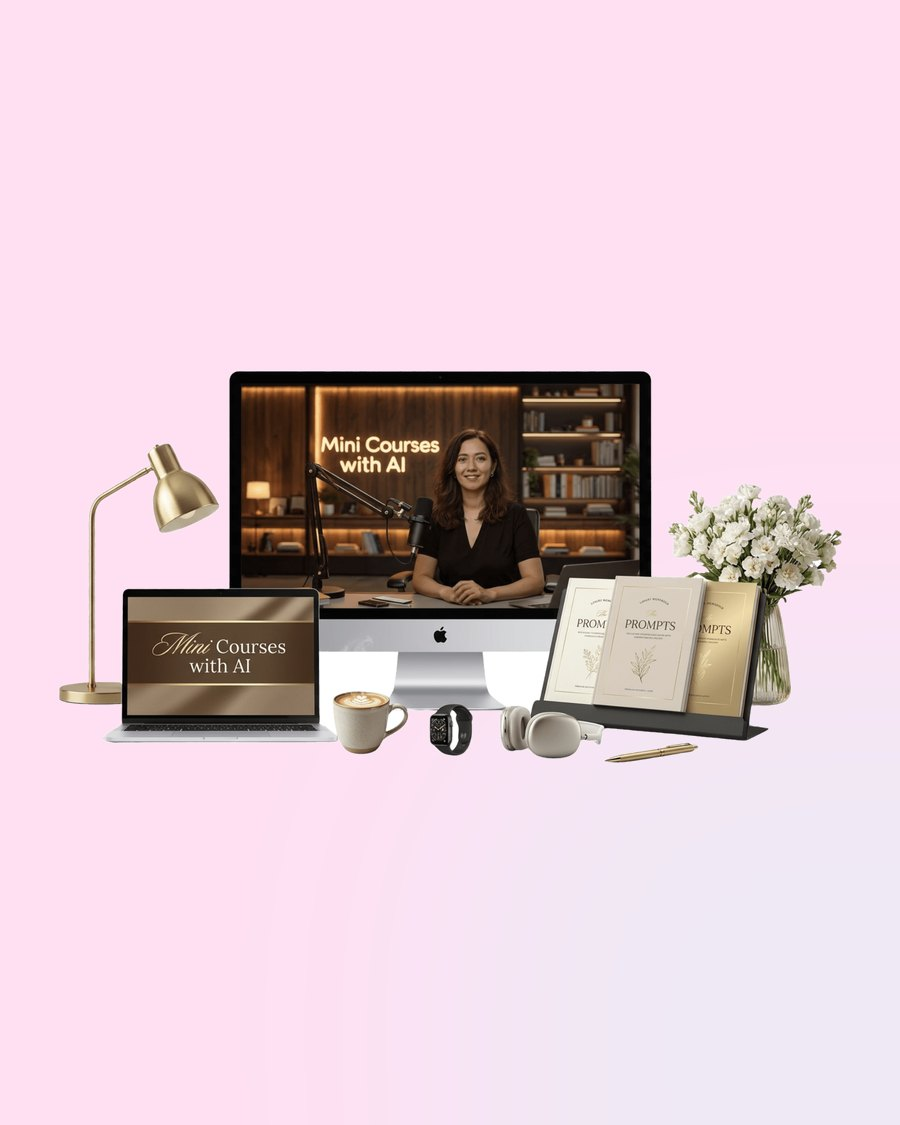
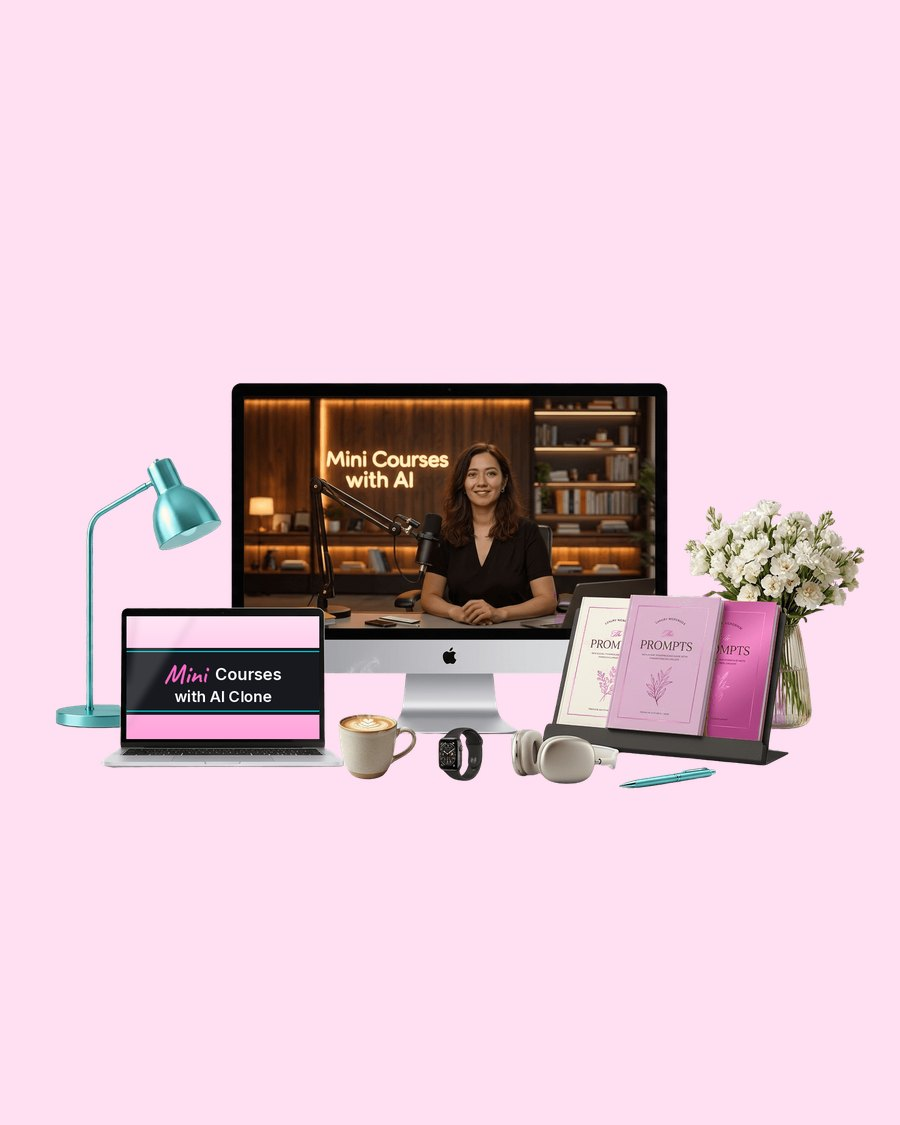
Site-wide: Mini Courses with AI Clone page linked from homepage at $39, new card image, All Access values, llms.txt and SEO tags
Claude-Session: https://claude.ai/code/session_01PxeRzWeaheMs1T8rnp6Qtq

Changed region(s): [[0.0622, 0.3111, 0.9644, 0.7156]]

diff --git a/mini-courses-with-ai-clone.html b/mini-courses-with-ai-clone.html
@@ -9,6 +9,98 @@
 <link rel="icon" type="image/png" href="assets/favicon.png">
 <!-- TRACKING SLOT: paste Meta pixel / Google Analytics / Pinterest tag here -->
 <link rel="stylesheet" href="css/funnel.css">
+  <!-- SEO: canonical, social and structured data -->
+  <link rel="canonical" href="https://creatorhustle.ai/mini-courses-with-ai-clone">
+  <meta property="og:site_name" content="Creator Hustle AI">
+  <meta property="og:type" content="website">
+  <meta property="og:title" content="Mini Courses with AI Clone | Creator Hustle AI">
+  <meta property="og:description" content="Turn your ideas into mini courses with your AI clone. A simple 5-step system from idea to published mini course, with no camera needed. $39.">
+  <meta property="og:url" content="https://creatorhustle.ai/mini-courses-with-ai-clone">
+  <meta property="og:image" content="https://creatorhustle.ai/assets/liya-bio.jpg">
+  <meta name="twitter:card" content="summary_large_image">
+  <script type="application/ld+json">
+{
+ "@context": "https://schema.org",
+ "@graph": [
+  {
+   "@type": "WebPage",
+   "@id": "https://creatorhustle.ai/mini-courses-with-ai-clone#page",
+   "url": "https://creatorhustle.ai/mini-courses-with-ai-clone",
+   "name": "Mini Courses with AI Clone | Creator Hustle AI",
+   "description": "Turn your ideas into mini courses with your AI clone. A simple 5-step system from idea to published mini course, with no camera needed. $39.",
+   "isPartOf": {
+    "@id": "https://creatorhustle.ai/#site"
+   },
+   "publisher": {
+    "@id": "https://creatorhustle.ai/#org"
+   },
+   "inLanguage": "en"
+  },
+  {
+   "@type": "FAQPage",
+   "@id": "https://creatorhustle.ai/mini-courses-with-ai-clone#faq",
+   "mainEntity": [
+    {
+     "@type": "Question",
+     "name": "Do I need any experience creating online courses?",
+     "acceptedAnswer": {
+      "@type": "Answer",
+      "text": "Not at all. It's designed for beginners and walks you through the whole process step by step, whether it's your first course or your tenth."
+     }
+    },
+    {
+     "@type": "Question",
+     "name": "Do I need to be good with AI or tech?",
+     "acceptedAnswer": {
+      "@type": "Answer",
+      "text": "No. Every tool I use is beginner-friendly, and I show you each click on screen."
+     }
+    },
+    {
+     "@type": "Question",
+     "name": "Do I need to appear on camera?",
+     "acceptedAnswer": {
+      "@type": "Answer",
+      "text": "No. You'll create your own AI clone presenter, so it can deliver your course content for you."
+     }
+    },
+    {
+     "@type": "Question",
+     "name": "How quickly can I create my mini course?",
+     "acceptedAnswer": {
+      "@type": "Answer",
+      "text": "Every course is different, but somewhere between 1 and 48 hours is realistic. The goal is to get you from idea to launch much faster by using AI throughout."
+     }
+    },
+    {
+     "@type": "Question",
+     "name": "What kind of course can I make?",
+     "acceptedAnswer": {
+      "@type": "Answer",
+      "text": "Almost anything you know well: coaching, business, marketing, wellness, hobbies, crafts. If you can explain it, your AI clone can present it."
+     }
+    },
+    {
+     "@type": "Question",
+     "name": "Will I be able to sell my course afterwards?",
+     "acceptedAnswer": {
+      "@type": "Answer",
+      "text": "Absolutely. By the end you'll have a mini course that's packaged and ready to publish, share or sell."
+     }
+    },
+    {
+     "@type": "Question",
+     "name": "Can I get a refund?",
+     "acceptedAnswer": {
+      "@type": "Answer",
+      "text": "Because it's a digital product with instant access, there are no refunds. If something isn't working for you, email me at liya@creatorhustle.ai and we'll sort it out together."
+     }
+    }
+   ]
+  }
+ ]
+}
+</script>
 </head>
 <body>
 

diff --git a/all-access-pass.html b/all-access-pass.html
@@ -245,8 +245,8 @@
           <p class="section-subtitle">If you'll use more than a few of my products this year, this is your smartest purchase. Here's roughly what everything would cost on its own.</p>
         </div>
         <div class="mathbox animate-on-scroll">
-          <div class="mb-row"><span>Interactive Mini Apps course</span><span>$49</span></div><div class="mb-row"><span>Mini Shop Method</span><span>$39</span></div><div class="mb-row"><span>Mini Courses with AI Clone</span><span>$19</span></div><div class="mb-row"><span>70 AI Skills PLR bundle</span><span>$59</span></div><div class="mb-row"><span>The AI Executive Suite</span><span>about $53</span></div><div class="mb-row"><span>AI Migration Kit</span><span>about $45</span></div><div class="mb-row"><span>My other Shopify products</span><span>about $160</span></div><div class="mb-row"><span>New courses and products in your 12 months</span><span>$450+</span></div>
-          <div class="mb-row mb-total"><span>If you bought it all separately</span><span class="mb-strike">$870+</span></div>
+          <div class="mb-row"><span>Interactive Mini Apps course</span><span>$49</span></div><div class="mb-row"><span>Mini Shop Method</span><span>$39</span></div><div class="mb-row"><span>Mini Courses with AI Clone</span><span>$39</span></div><div class="mb-row"><span>70 AI Skills PLR bundle</span><span>$59</span></div><div class="mb-row"><span>The AI Executive Suite</span><span>about $53</span></div><div class="mb-row"><span>AI Migration Kit</span><span>about $45</span></div><div class="mb-row"><span>My other Shopify products</span><span>about $160</span></div><div class="mb-row"><span>New courses and products in your 12 months</span><span>$450+</span></div>
+          <div class="mb-row mb-total"><span>If you bought it all separately</span><span class="mb-strike">$890+</span></div>
           <div class="mb-row mb-price"><span>Your All Access Pass</span><span>$397/year</span></div>
           <p class="mb-note">Founding members pay just $397 for their first year.</p>
         </div>

diff --git a/interactive-mini-app.html b/interactive-mini-app.html
@@ -311,8 +311,8 @@ details .a{padding:0 22px 20px;color:var(--muted)}
   <link rel="canonical" href="https://creatorhustle.ai/interactive-mini-app">
   <meta property="og:site_name" content="Creator Hustle AI">
   <meta property="og:type" content="website">
-  <meta property="og:title" content="Interactive Mini App: Turn Your Freebie Into a Mini App | Creator Hustle AI">
-  <meta property="og:description" content="Turn the PDF nobody opens into an interactive mini app your audience actually uses. 4 short lessons, no code. $29.">
+  <meta property="og:title" content="Interactive Mini Apps: Turn Your Freebie Into a Mini App | Creator Hustle AI">
+  <meta property="og:description" content="Turn the PDF nobody opens into an interactive mini app your audience actually uses. 4 short lessons, no code. $49.">
   <meta property="og:url" content="https://creatorhustle.ai/interactive-mini-app">
   <meta property="og:image" content="https://creatorhustle.ai/assets/liya-bio.jpg">
   <meta name="twitter:card" content="summary_large_image">
@@ -324,8 +324,8 @@ details .a{padding:0 22px 20px;color:var(--muted)}
    "@type": "WebPage",
    "@id": "https://creatorhustle.ai/interactive-mini-app#page",
    "url": "https://creatorhustle.ai/interactive-mini-app",
-   "name": "Interactive Mini App: Turn Your Freebie Into a Mini App | Creator Hustle AI",
-   "description": "Turn the PDF nobody opens into an interactive mini app your audience actually uses. 4 short lessons, no code. $29.",
+   "name": "Interactive Mini Apps: Turn Your Freebie Into a Mini App | Creator Hustle AI",
+   "description": "Turn the PDF nobody opens into an interactive mini app your audience actually uses. 4 short lessons, no code. $49.",
    "isPartOf": {
     "@id": "https://creatorhustle.ai/#site"
    },

diff --git a/index.html b/index.html
@@ -421,10 +421,10 @@
             <div class="offer-body">
               <span class="offer-step">Step 5 &middot; Create a course, fast</span>
               <h3 class="offer-name">Mini Courses with AI Clone</h3>
-              <p class="offer-price">$19</p>
+              <p class="offer-price">$39</p>
               <p class="offer-desc">Use AI to plan, build, present, package and publish your mini course, with your AI clone that presents the lessons for you. No course-creation or tech experience needed.</p>
               <p class="offer-leave"><strong>You leave with:</strong> your own mini course, ready to publish and sell.</p>
-              <a href="https://go.coursehustle.com/mini-courses-with-ai/" class="btn btn-dark" target="_blank" rel="noopener">Get the course <svg class="btn-arrow" xmlns="http://www.w3.org/2000/svg" width="16" height="16" viewBox="0 0 24 24" fill="none" stroke="currentColor" stroke-width="2.25" stroke-linecap="round" stroke-linejoin="round" aria-hidden="true"><path d="M5 12h14M13 6l6 6-6 6"/></svg></a>
+              <a href="mini-courses-with-ai-clone.html" class="btn btn-dark">See the course <svg class="btn-arrow" xmlns="http://www.w3.org/2000/svg" width="16" height="16" viewBox="0 0 24 24" fill="none" stroke="currentColor" stroke-width="2.25" stroke-linecap="round" stroke-linejoin="round" aria-hidden="true"><path d="M5 12h14M13 6l6 6-6 6"/></svg></a>
             </div>
           </article>
 

diff --git a/interactive-mini-app-offer.html b/interactive-mini-app-offer.html
@@ -298,8 +298,8 @@ details .a{padding:0 22px 20px;color:var(--muted)}
   <link rel="canonical" href="https://creatorhustle.ai/interactive-mini-app-offer">
   <meta property="og:site_name" content="Creator Hustle AI">
   <meta property="og:type" content="website">
-  <meta property="og:title" content="Interactive Mini App: Special One-Time Offer | Creator Hustle AI">
-  <meta property="og:description" content="Your next digital product could be a mini app. Interactive Mini App shows you how to build it, in 4 short lessons, at a one-time price.">
+  <meta property="og:title" content="Interactive Mini Apps: Special One-Time Offer | Creator Hustle AI">
+  <meta property="og:description" content="Your next digital product could be a mini web app. Interactive Mini Apps shows you how to build it, in 4 short lessons, at a one-time price.">
   <meta property="og:url" content="https://creatorhustle.ai/interactive-mini-app-offer">
   <meta property="og:image" content="https://creatorhustle.ai/assets/liya-bio.jpg">
   <meta name="twitter:card" content="summary_large_image">

diff --git a/mini-courses-with-ai-offer.html b/mini-courses-with-ai-offer.html
@@ -10,6 +10,15 @@
 <link rel="icon" type="image/png" href="assets/favicon.png">
 <!-- TRACKING SLOT: paste Meta pixel / Google Analytics / Pinterest tag here -->
 <link rel="stylesheet" href="css/funnel.css">
+  <!-- SEO: canonical, social and structured data -->
+  <link rel="canonical" href="https://creatorhustle.ai/mini-courses-with-ai-offer">
+  <meta property="og:site_name" content="Creator Hustle AI">
+  <meta property="og:type" content="website">
+  <meta property="og:title" content="Mini Courses with AI Clone: Final Offer | Creator Hustle AI">
+  <meta property="og:description" content="Turn your ideas into mini courses with your AI clone. A final offer at $19 instead of $39, only on this page.">
+  <meta property="og:url" content="https://creatorhustle.ai/mini-courses-with-ai-offer">
+  <meta property="og:image" content="https://creatorhustle.ai/assets/liya-bio.jpg">
+  <meta name="twitter:card" content="summary_large_image">
 </head>
 <body>
 

diff --git a/canva-ai-prompt-library-offer.html b/canva-ai-prompt-library-offer.html
@@ -10,6 +10,15 @@
 <link rel="icon" type="image/png" href="assets/favicon.png">
 <!-- TRACKING SLOT: paste Meta pixel / Google Analytics / Pinterest tag here -->
 <link rel="stylesheet" href="css/funnel.css">
+  <!-- SEO: canonical, social and structured data -->
+  <link rel="canonical" href="https://creatorhustle.ai/canva-ai-prompt-library-offer">
+  <meta property="og:site_name" content="Creator Hustle AI">
+  <meta property="og:type" content="website">
+  <meta property="og:title" content="Canva AI Prompt Library + Workshop: One-Time Add-On | Creator Hustle AI">
+  <meta property="og:description" content="Add 43 ready-to-use Canva AI prompts and a workshop to your order, only on this page.">
+  <meta property="og:url" content="https://creatorhustle.ai/canva-ai-prompt-library-offer">
+  <meta property="og:image" content="https://creatorhustle.ai/assets/liya-bio.jpg">
+  <meta name="twitter:card" content="summary_large_image">
 </head>
 <body>
 

diff --git a/welcome.html b/welcome.html
@@ -42,6 +42,15 @@
   .svc .pr{font-weight:800;color:var(--charcoal)}
   @media(max-width:760px){.access,.svc{grid-template-columns:1fr}}
 </style>
+  <!-- SEO: canonical, social and structured data -->
+  <link rel="canonical" href="https://creatorhustle.ai/welcome">
+  <meta property="og:site_name" content="Creator Hustle AI">
+  <meta property="og:type" content="website">
+  <meta property="og:title" content="You&#x27;re In! Welcome to Creator Hustle AI">
+  <meta property="og:description" content="Your order is complete. Create your password to enter your course library.">
+  <meta property="og:url" content="https://creatorhustle.ai/welcome">
+  <meta property="og:image" content="https://creatorhustle.ai/assets/liya-bio.jpg">
+  <meta name="twitter:card" content="summary_large_image">
 </head>
 <body>
 
